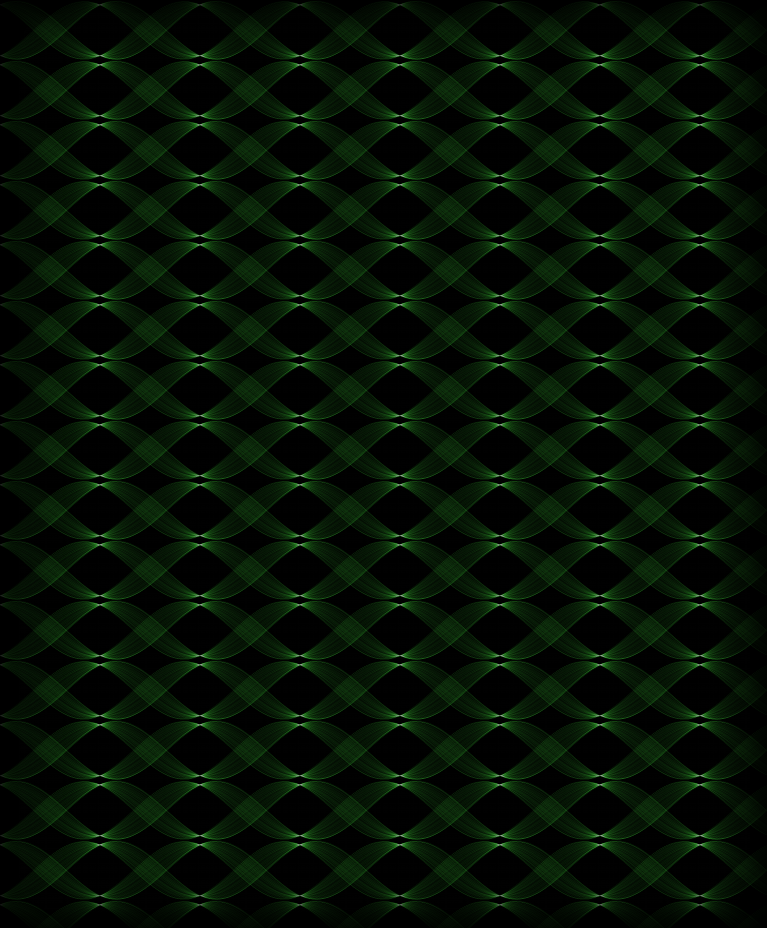
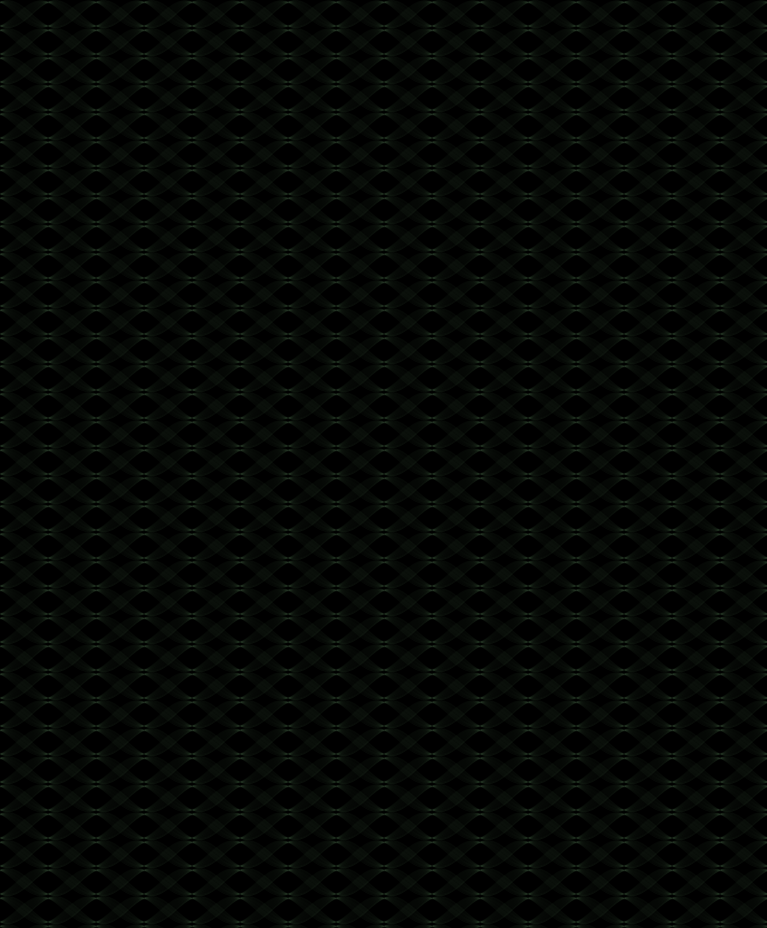
Adding background image (tile) to views

diff --git a/Classes/HoughImageViewController.m b/Classes/HoughImageViewController.m
@@ -72,7 +72,12 @@
     self.imgView = [[[UIImageView alloc] initWithFrame:imgRect] autorelease];
     self.loadingView = [[[LoadingView alloc] initWithFrame:imgRect] autorelease];
     
-    self.view.backgroundColor = [UIColor houghGray];
+    UIImageView* tilePattern = [[[UIImageView alloc] initWithFrame:imgRect] autorelease];
+    tilePattern.image = [UIImage imageNamed:@"tilepattern.png"];
+//    UIImageView* tilePattern = [[[UIImageView alloc] initWithImage:[UIImage imageNamed:@"tilepattern.png"]] autorelease];
+    
+    
+    self.view.backgroundColor = [UIColor clearColor];
     self.toolBar.tintColor = [UIColor toolbarTintColor];
 
     self.hough = [[[Hough alloc] init] autorelease];
@@ -90,8 +95,8 @@
     self.placeHolder.numberOfLines = 2;
     self.placeHolder.lineBreakMode = UILineBreakModeWordWrap;
     self.placeHolder.font = [UIFont fontWithName:@"Courier" size:32];
-    self.placeHolder.textColor = [UIColor houghGreen];
-    self.placeHolder.backgroundColor = [UIColor clearColor];
+    self.placeHolder.textColor = [UIColor houghWhite];
+    self.placeHolder.backgroundColor = [UIColor houghLightGreen];
     
     self.placeHolder.text = @"TODO: Fill this screen with awesome stuff!";
     
@@ -102,11 +107,9 @@
     textRect.origin = CGPointMake((totalRect.size.width - rs.width)/2, (totalRect.size.height - rs.height)/2);
     textRect.size = rs;
     
-//    textRect = CGRectInset(imgRect, 40, 40);
-    
     self.placeHolder.frame = textRect;
     
-    self.imgView.backgroundColor = [UIColor mainBackgroundColor];
+    self.imgView.backgroundColor = [UIColor clearColor]; // mainBackgroundColor
     
     // --- END OF TEMPORARY STUFF ---
     
@@ -126,7 +129,7 @@
                                                                                     target:nil
                                                                                     action:nil] autorelease];
     fixSpaceItem.width = 350;
-    titleItem.enabled = NO;
+//    titleItem.enabled = NO;
     
     // -- 
     [self.toolBar setItems:[NSArray arrayWithObjects:fixSpaceItem, titleItem, flexSpaceItem, actionItem, nil] animated:YES];
@@ -135,13 +138,13 @@
     self.view.backgroundColor = [UIColor mainBackgroundColor];
 
     [self.view addSubview:self.toolBar];
+    [self.view addSubview:tilePattern];
     [self.view addSubview:self.imgView];
     
-    [self.view addSubview:self.placeHolder];
+//    [self.view addSubview:self.placeHolder];
     [self.view addSubview:self.loadingView];
 
 }
-
 -(void)showChooseImageView{
     // TODO: Load popover with settings view
 

diff --git a/Classes/HoughFreeHandViewController.m b/Classes/HoughFreeHandViewController.m
@@ -51,11 +51,12 @@
     CGRect touchRect  = CGRectZero;
     CGRect inputRect  = CGRectZero;
     CGRect statusRect = CGRectZero;
+    CGRect tileRect   = CGRectZero;
     
     // TODO: Put constants in enum
     
-    CGRectDivide(totalRect,  &navRect, &touchRect,  50, CGRectMinYEdge);
-    CGRectDivide(touchRect,  &touchRect,  &inputRect,  450, CGRectMinYEdge);
+    CGRectDivide(totalRect,  &navRect, &tileRect,  50, CGRectMinYEdge);
+    CGRectDivide(tileRect,  &touchRect,  &inputRect,  450, CGRectMinYEdge);
     CGRectDivide(inputRect,  &inputRect,  &statusRect, 450, CGRectMinYEdge);
     
     touchRect = CGRectInset(touchRect, 15, 15);
@@ -69,6 +70,10 @@
     self.houghInputView = [[[HoughInputView alloc] initWithFrame:inputRect] autorelease];
 //    self.status         = [[[UILabel alloc] initWithFrame:statusRect] autorelease];
     
+    UIImageView* tilePattern = [[[UIImageView alloc] initWithFrame:tileRect] autorelease];
+    tilePattern.image = [UIImage imageNamed:@"tilepattern.png"];
+    //    UIImageView* tilePattern = [[[UIImageView alloc] initWithImage:[UIImage imageNamed:@"tilepattern.png"]] autorelease];
+
     self.hough = [[[Hough alloc] init] autorelease];
     self.hough.interactionMode   = kFreeHandDraw; // TODO: Parameterize
     self.houghInputView.houghRef = self.hough;
@@ -114,11 +119,11 @@
                                                                                     action:nil] autorelease];
     
     selectionItem.possibleTitles = [NSSet setWithObjects:@"Draw", @"Tap", @"long titel", nil];
-    fixSpaceItem.width  = 250;
+    fixSpaceItem.width  = 330;
     fixSpaceItem2.width = 30;
     
     // -- 
-    [self.toolBar setItems:[NSArray arrayWithObjects:settingsItem, fixSpaceItem, titleItem, spaceItem, selectionItem, fixSpaceItem2, clearItem, nil] animated:YES];
+    [self.toolBar setItems:[NSArray arrayWithObjects:fixSpaceItem, titleItem, spaceItem, selectionItem, fixSpaceItem2, clearItem, nil] animated:YES];
     
     self.hough.size = self.houghTouchView.frame.size;
 	self.houghInputView.delegate = self;
@@ -139,6 +144,7 @@
     [self.houghTouchView.layer addSublayer:self.circleLayer];
     
     [self.view addSubview:self.toolBar];
+    [self.view addSubview:tilePattern];
     [self.view addSubview:self.houghTouchView];
     [self.view addSubview:self.houghInputView];
 //    [self.view addSubview:self.status];
